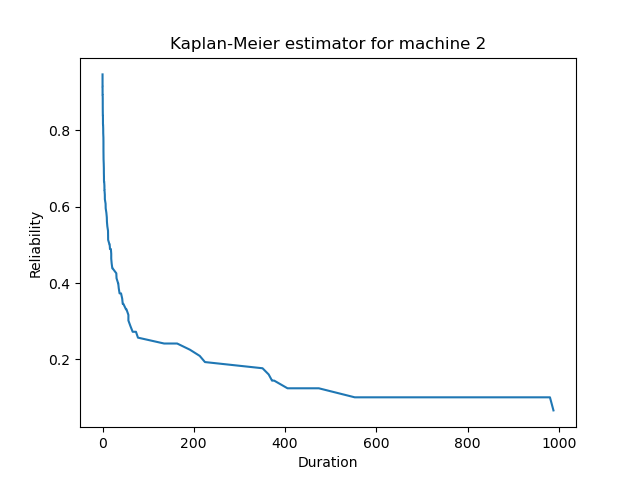
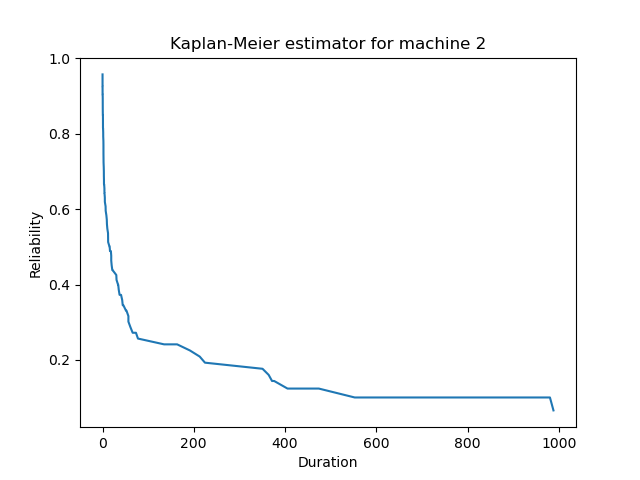
Combined Reliability plotted KM + weibull

diff --git a/s4917340-Tool.py b/s4917340-Tool.py
@@ -15,7 +15,7 @@ plot_path = os.path.join(root_path, 'plot')
 
 def data_preparation(machine_data : pd.DataFrame):
     machine_data['Censored'] = machine_data['Event'].map({'failure': 'No', 'PM':'Yes'})
-    machine_data['Duration'] = machine_data['Time'].diff(periods=1).fillna(0)
+    machine_data['Duration'] = machine_data['Time'].diff(periods=1).fillna(machine_data['Time'].iloc[0])
     machine_data = machine_data.sort_values(by='Duration', ascending=True)
     # source: https://stackoverflow.com/questions/67845362/sort-pandas-df-subset-of-rows-within-a-group-by-specific-column 
     # source: https://sparkbyexamples.com/pandas/pandas-groupby-sort-within-groups/
@@ -92,7 +92,6 @@ def fit_weibull_distribution(prepared_data : pd.DataFrame):
     # 3. Create  log-likelihood  data  for  each  event  in  your  dataset.
     for observation_index, observation_row in prepared_data.iterrows():
         column_name = 'Observation ' + str(observation_index)
-        # df_weibull[column_name] = 0
         for row_index in range(len(df_weibull)):
             l = df_weibull.loc[row_index, 'Lambda']
             k = df_weibull.loc[row_index, 'Kappa']
@@ -114,7 +113,7 @@ def fit_weibull_distribution(prepared_data : pd.DataFrame):
     # get all the column names starting with Observation
     observation_columns = df_weibull.columns[df_weibull.columns.str.contains(pat='Observation')].tolist()
     # sum the loglikelihood of each observation per row
-    df_weibull['Loglikelihood_sum'] = df_weibull[observation_columns[1:]].sum(axis=1)
+    df_weibull['Loglikelihood_sum'] = df_weibull[observation_columns].sum(axis=1)
     print(df_weibull)
 
     # get the optimal Lambda and Kappa based on the max Loglikelihood sum
@@ -126,19 +125,19 @@ def create_weibull_curve_data(prepared_data, lamb_val, kap_val):
     # Create an new dataframe with t durations and reliability R_t
     weibull_data = pd.DataFrame(columns=['t', 'R_t'])
     # Create an range of durations from the 0 to length of the prepared data 
-    weibull_data['t'] = np.arange(0, len(prepared_data), 0.01)
+    weibull_data['t'] = np.arange(0, len(prepared_data), 0.1)
     # Reliability distribution function. The opposite of F(t), the probability of survival until t
-    reliablity_dist = np.exp(-(weibull_data['t']/lamb_val)**kap_val) 
-    weibull_data['R_t'] = np.round(reliablity_dist, 1)
+    weibull_data['R_t'] = np.exp(-(weibull_data['t']/lamb_val)**kap_val) 
     return weibull_data
 
 def visualization(KM_data : pd.DataFrame, weibull_data : pd.DataFrame, machine_name):
-    plt.title(f'Visualization of reliability functions of machine {machine_name}')
-    max_duration_KM = KM_data['Duration'].max()
-    plt.plot(weibull_data.loc[weibull_data['t'] <= max_duration_KM]['t'], weibull_data.loc[weibull_data['t'] <= max_duration_KM]['R_t'], label='Weibull')
-    # plt.plot(weibull_data['t'], weibull_data['R_t'], label='Weibull')
-    plt.plot(KM_data['Duration'], KM_data['Reliability'], label='Kaplan-Meier')
-    plt.legend()
+    fig, ax = plt.subplots()
+    ax.set_title(f'Visualization of reliability functions of machine {machine_name}')
+    ax.step(KM_data['Duration'], KM_data['Reliability'], where="post", label='Kaplan-Meier')
+    ax.plot(weibull_data['t'], weibull_data['R_t'], label='Weibull')
+    ax.set_xlabel('Time')
+    ax.set_ylabel('Reliability')
+    ax.legend()
     plt.savefig(os.path.join(plot_path, f'{student_nr}-Machine-{machine_name}-Reliability.png'))
 
 
@@ -149,21 +148,20 @@ def run_analysis():
     KM_data = create_kaplanmeier_data(prepared_data)
     plot_kaplanmeier_estimation(KM_data[['Duration', 'Reliability']], machine_name)
     MTBF_KM = meantimebetweenfailures_KM(KM_data)
-    print('The MTBF-KaplanMeier is:', MTBF_KM)
 
     # Weibull fitting
     lamb_val, kap_val = fit_weibull_distribution(prepared_data)
     print(f'\nBest Lambda & Kappa values for machine {machine_name} are {lamb_val} and {kap_val}')
 
-    # MTBF weibull
+    # MTBF 
     MTBF_weibull = meantimebetweenfailure_weibull(lamb_val, kap_val)
+    print('The MTBF-Kaplan Meier is:', MTBF_KM)
     print('The MTBF-Weibull is:', MTBF_weibull)
 
     # Weibull data
     weibull_data = create_weibull_curve_data(prepared_data, lamb_val, kap_val)
-    print(weibull_data)
-
-    visualization(KM_data, weibull_data, machine_name)
+    weibull_data_to_plot = weibull_data[weibull_data['t'] <= KM_data['Duration'].max()]
+    visualization(KM_data, weibull_data_to_plot, machine_name)
     return
 
 run_analysis()
